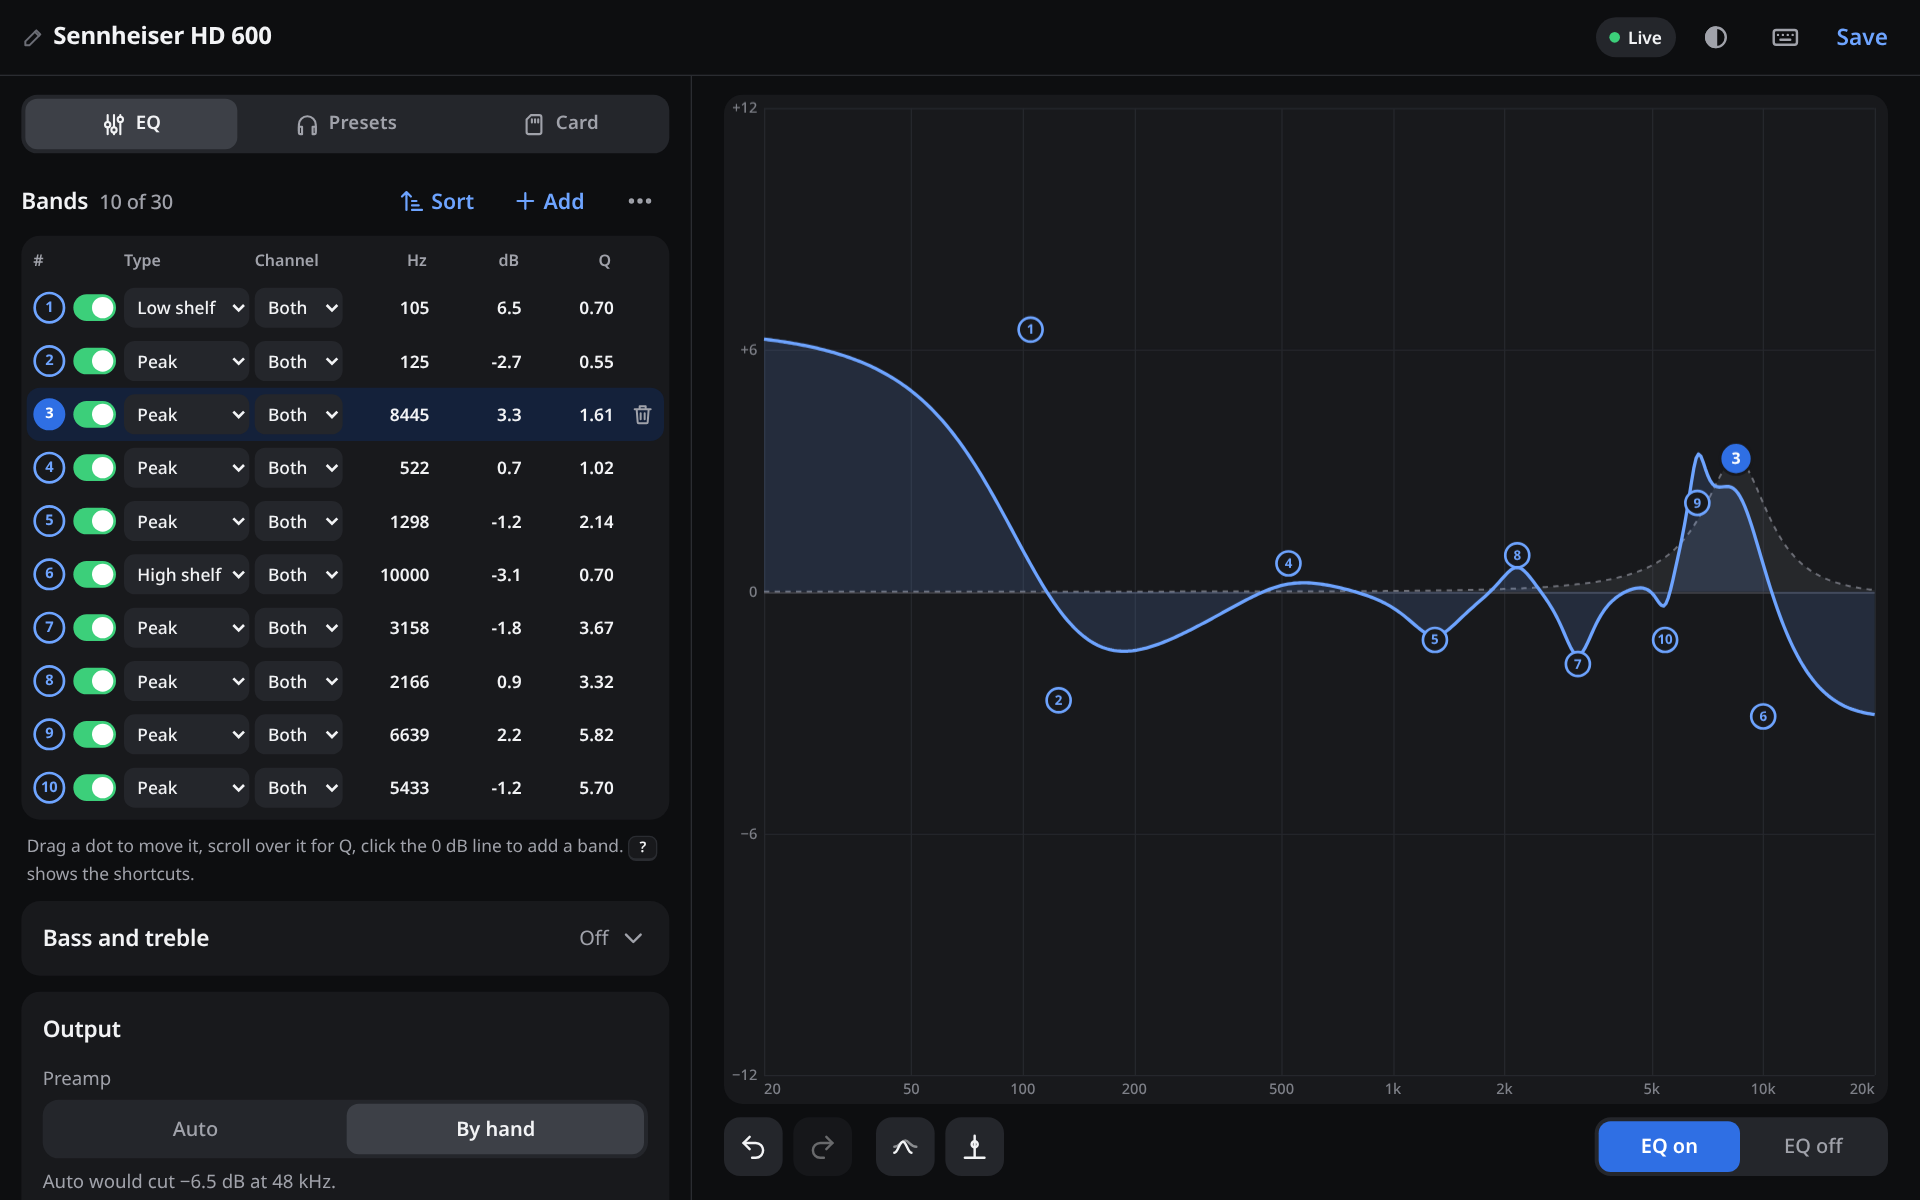
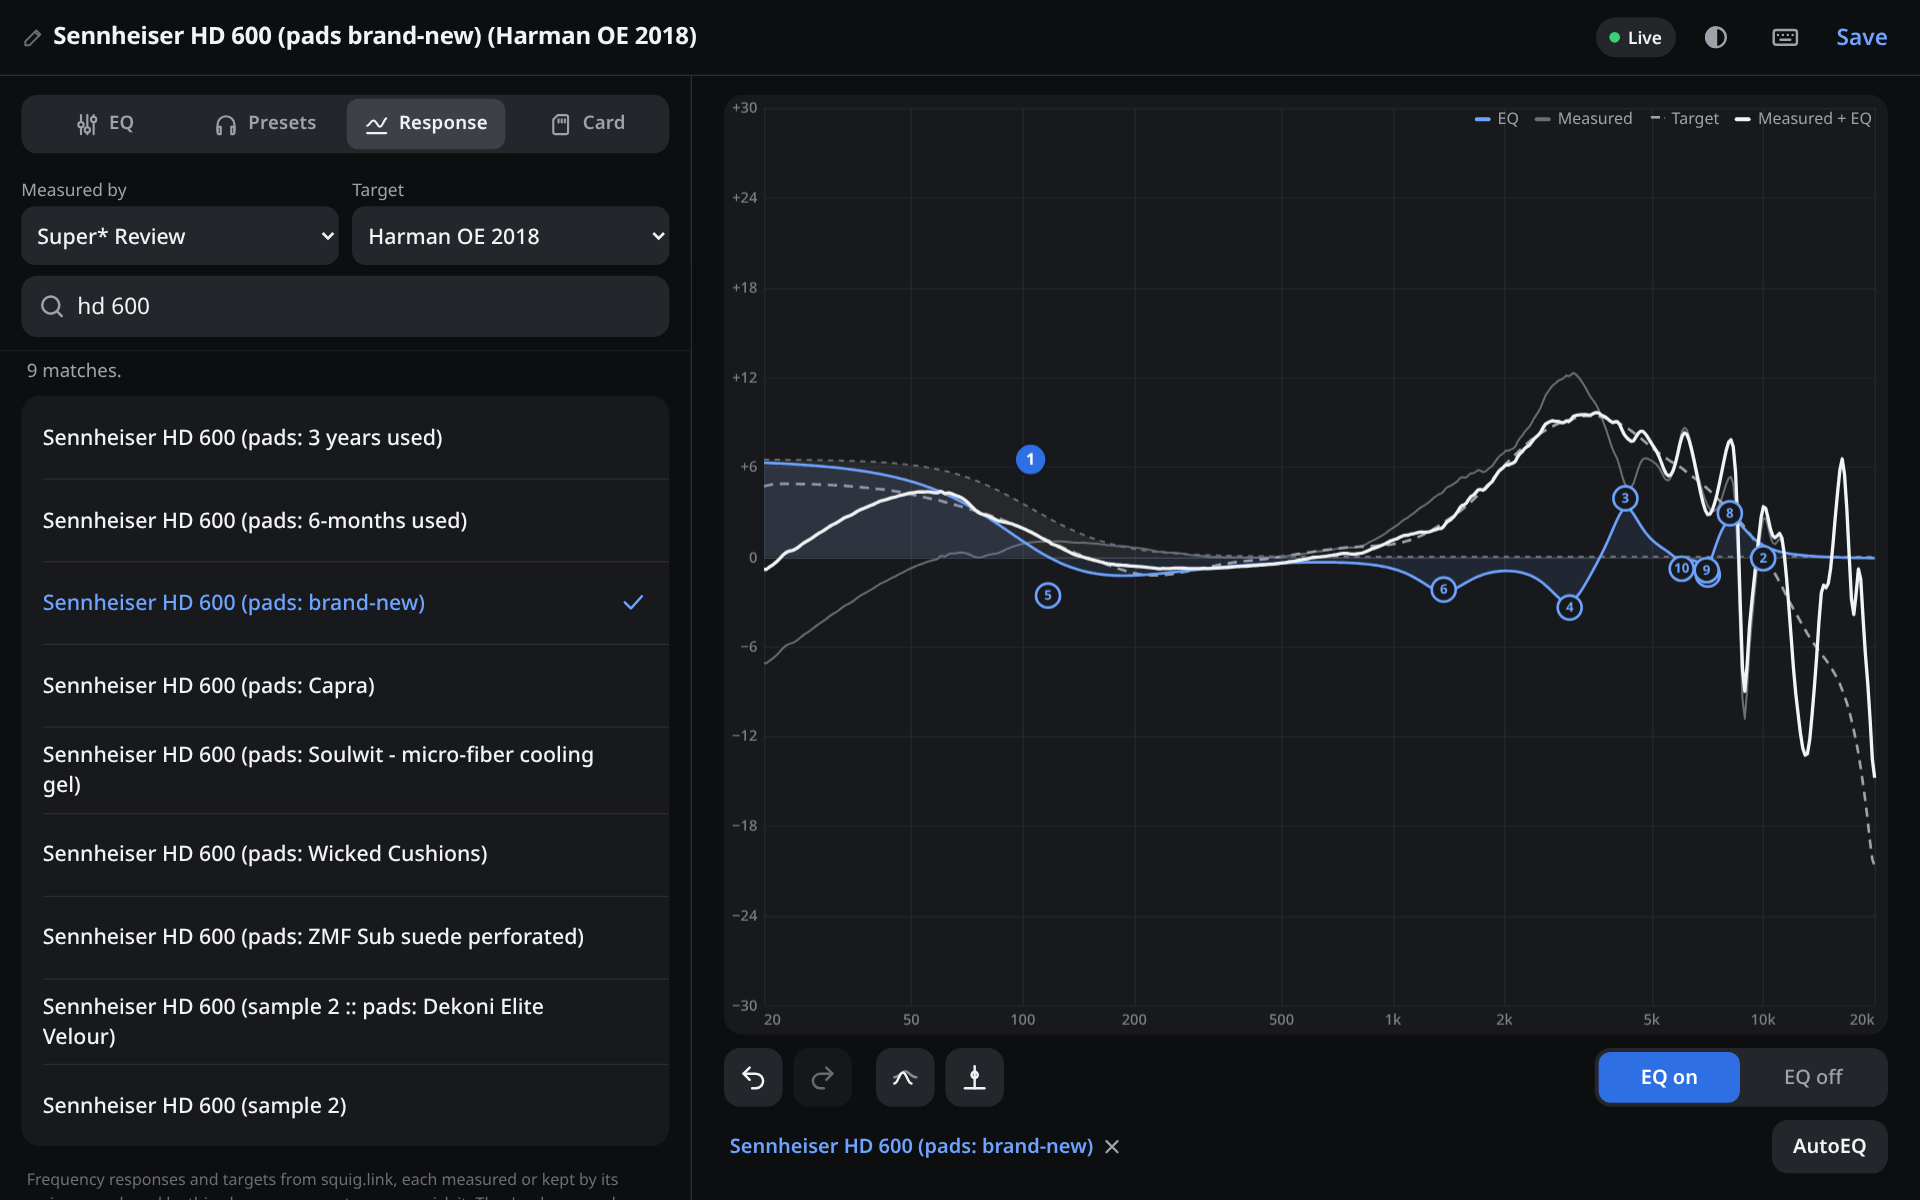
app, readme: AutoEQ recovers from a failed fit; Response in the picture

diff --git a/web/app.js b/web/app.js
@@ -1721,21 +1721,27 @@
     fitting = true;
     const [measured, to] = [shown, squig.target];
     const still = () => shown === measured && squig.target === to;
-    if (!squig.targets.has(to)) await loadTarget();
-    const target = squig.targets.get(to);
-    if (target && still()) {
+    try {
+      if (!squig.targets.has(to)) await loadTarget();
+      const target = squig.targets.get(to);
+      if (!target || !still()) return;
       toast(`Fitting ${measured.name} to ${to}…`);
       await new Promise((resolve) => { setTimeout(resolve, 30); }); // the toast shows before the fit's work
-      const { bands } = still() ? fitLib.fit({ measurement: [measured.points], target }) : {};
-      if (bands && !bands.length) toast(`${measured.name} is on ${to} already: no band would bring it closer.`);
-      else if (bands) {
-        // The target in the name, unless a long name would lose it.
-        const named = eq.cleanName(`${measured.name} (${to})`);
-        const name = named.endsWith(`(${eq.cleanName(to)})`) ? named : eq.cleanName(measured.name);
-        load({ ok: true, preset: { name, auto: true, preamp: 0, balance: 0, bands } }, 'by AutoEQ');
+      if (!still()) return;
+      const { bands } = fitLib.fit({ measurement: [measured.points], target });
+      if (!bands.length) {
+        toast(`${measured.name} is on ${to} already: no band would bring it closer.`);
+        return;
       }
+      // The target in the name, unless a long name would lose it.
+      const named = eq.cleanName(`${measured.name} (${to})`);
+      const name = named.endsWith(`(${eq.cleanName(to)})`) ? named : eq.cleanName(measured.name);
+      load({ ok: true, preset: { name, auto: true, preamp: 0, balance: 0, bands } }, 'by AutoEQ');
+    } catch (error) {
+      notice("AutoEQ couldn't fit it", error.message);
+    } finally {
+      fitting = false;
     }
-    fitting = false;
   }
 
   // Last visit's reviewer and target, and its measurement fetched again; offline, it waits for the

diff --git a/README.md b/README.md
@@ -18,7 +18,7 @@ The Q2 stays awake while the phone is in use, and EQ Studio turns itself off aft
 
 ### On a computer
 
-![EQ Studio on a computer: the bands as a table beside the graph, dark theme](docs/eq-studio-desktop.png)
+![EQ Studio on a computer: an HD 600 measured on squig.link, drawn under its AutoEQ to Harman OE 2018, dark theme](docs/eq-studio-desktop.png)
 
 A window 960 pixels wide or more shows the computer's layout: the tabs in a sidebar and the graph beside them, so a preset picked under Presets shows on the graph as it plays. The bands are a table, each value typed in place (`1.2k` is 1200 Hz) or stepped with ↑ and ↓, Enter going down a row. Narrow the window and it's the phone's layout again, with the same preset, history and band picked.
 
